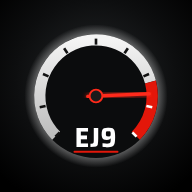
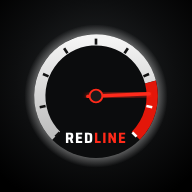
v4.5: la app pasa a llamarse Redline, icono nuevo
Claude-Session: https://claude.ai/code/session_0134MyKZUTEarriXTJcz9APa

Changed region(s): [[0.3438, 0.6562, 0.6562, 0.8125]]

diff --git a/index.html b/index.html
@@ -1,6 +1,8 @@
 <meta charset="utf-8">
 <meta name="viewport" content="width=device-width, initial-scale=1, viewport-fit=cover">
-<title>EJ9 Dash</title>
+<title>Redline</title>
+<meta name="application-name" content="Redline">
+<meta name="apple-mobile-web-app-title" content="Redline">
 <link rel="manifest" href="manifest.webmanifest">
 <link rel="icon" href="icon-192.png">
 <link rel="apple-touch-icon" href="icon-192.png">
@@ -424,7 +426,7 @@ const $ = id => document.getElementById(id);
 const NS = "http://www.w3.org/2000/svg";
 
 /* ---------- Ajustes ---------- */
-const APP_VERSION = "v4.4 · 12/11/2026 21:15"; // se cambia con cada actualización
+const APP_VERSION = "v4.5 · 12/11/2026 21:25"; // se cambia con cada actualización
 $("appVer").textContent = APP_VERSION;
 const GEARS_EJ9 = [8.1, 15.0, 21.2, 27.1, 32.5]; // km/h por cada 1000 rpm en cada marcha (EJ9, aprox.)
 const DEF_ARCS = ["water", "oil", "tps", "mapm"];
